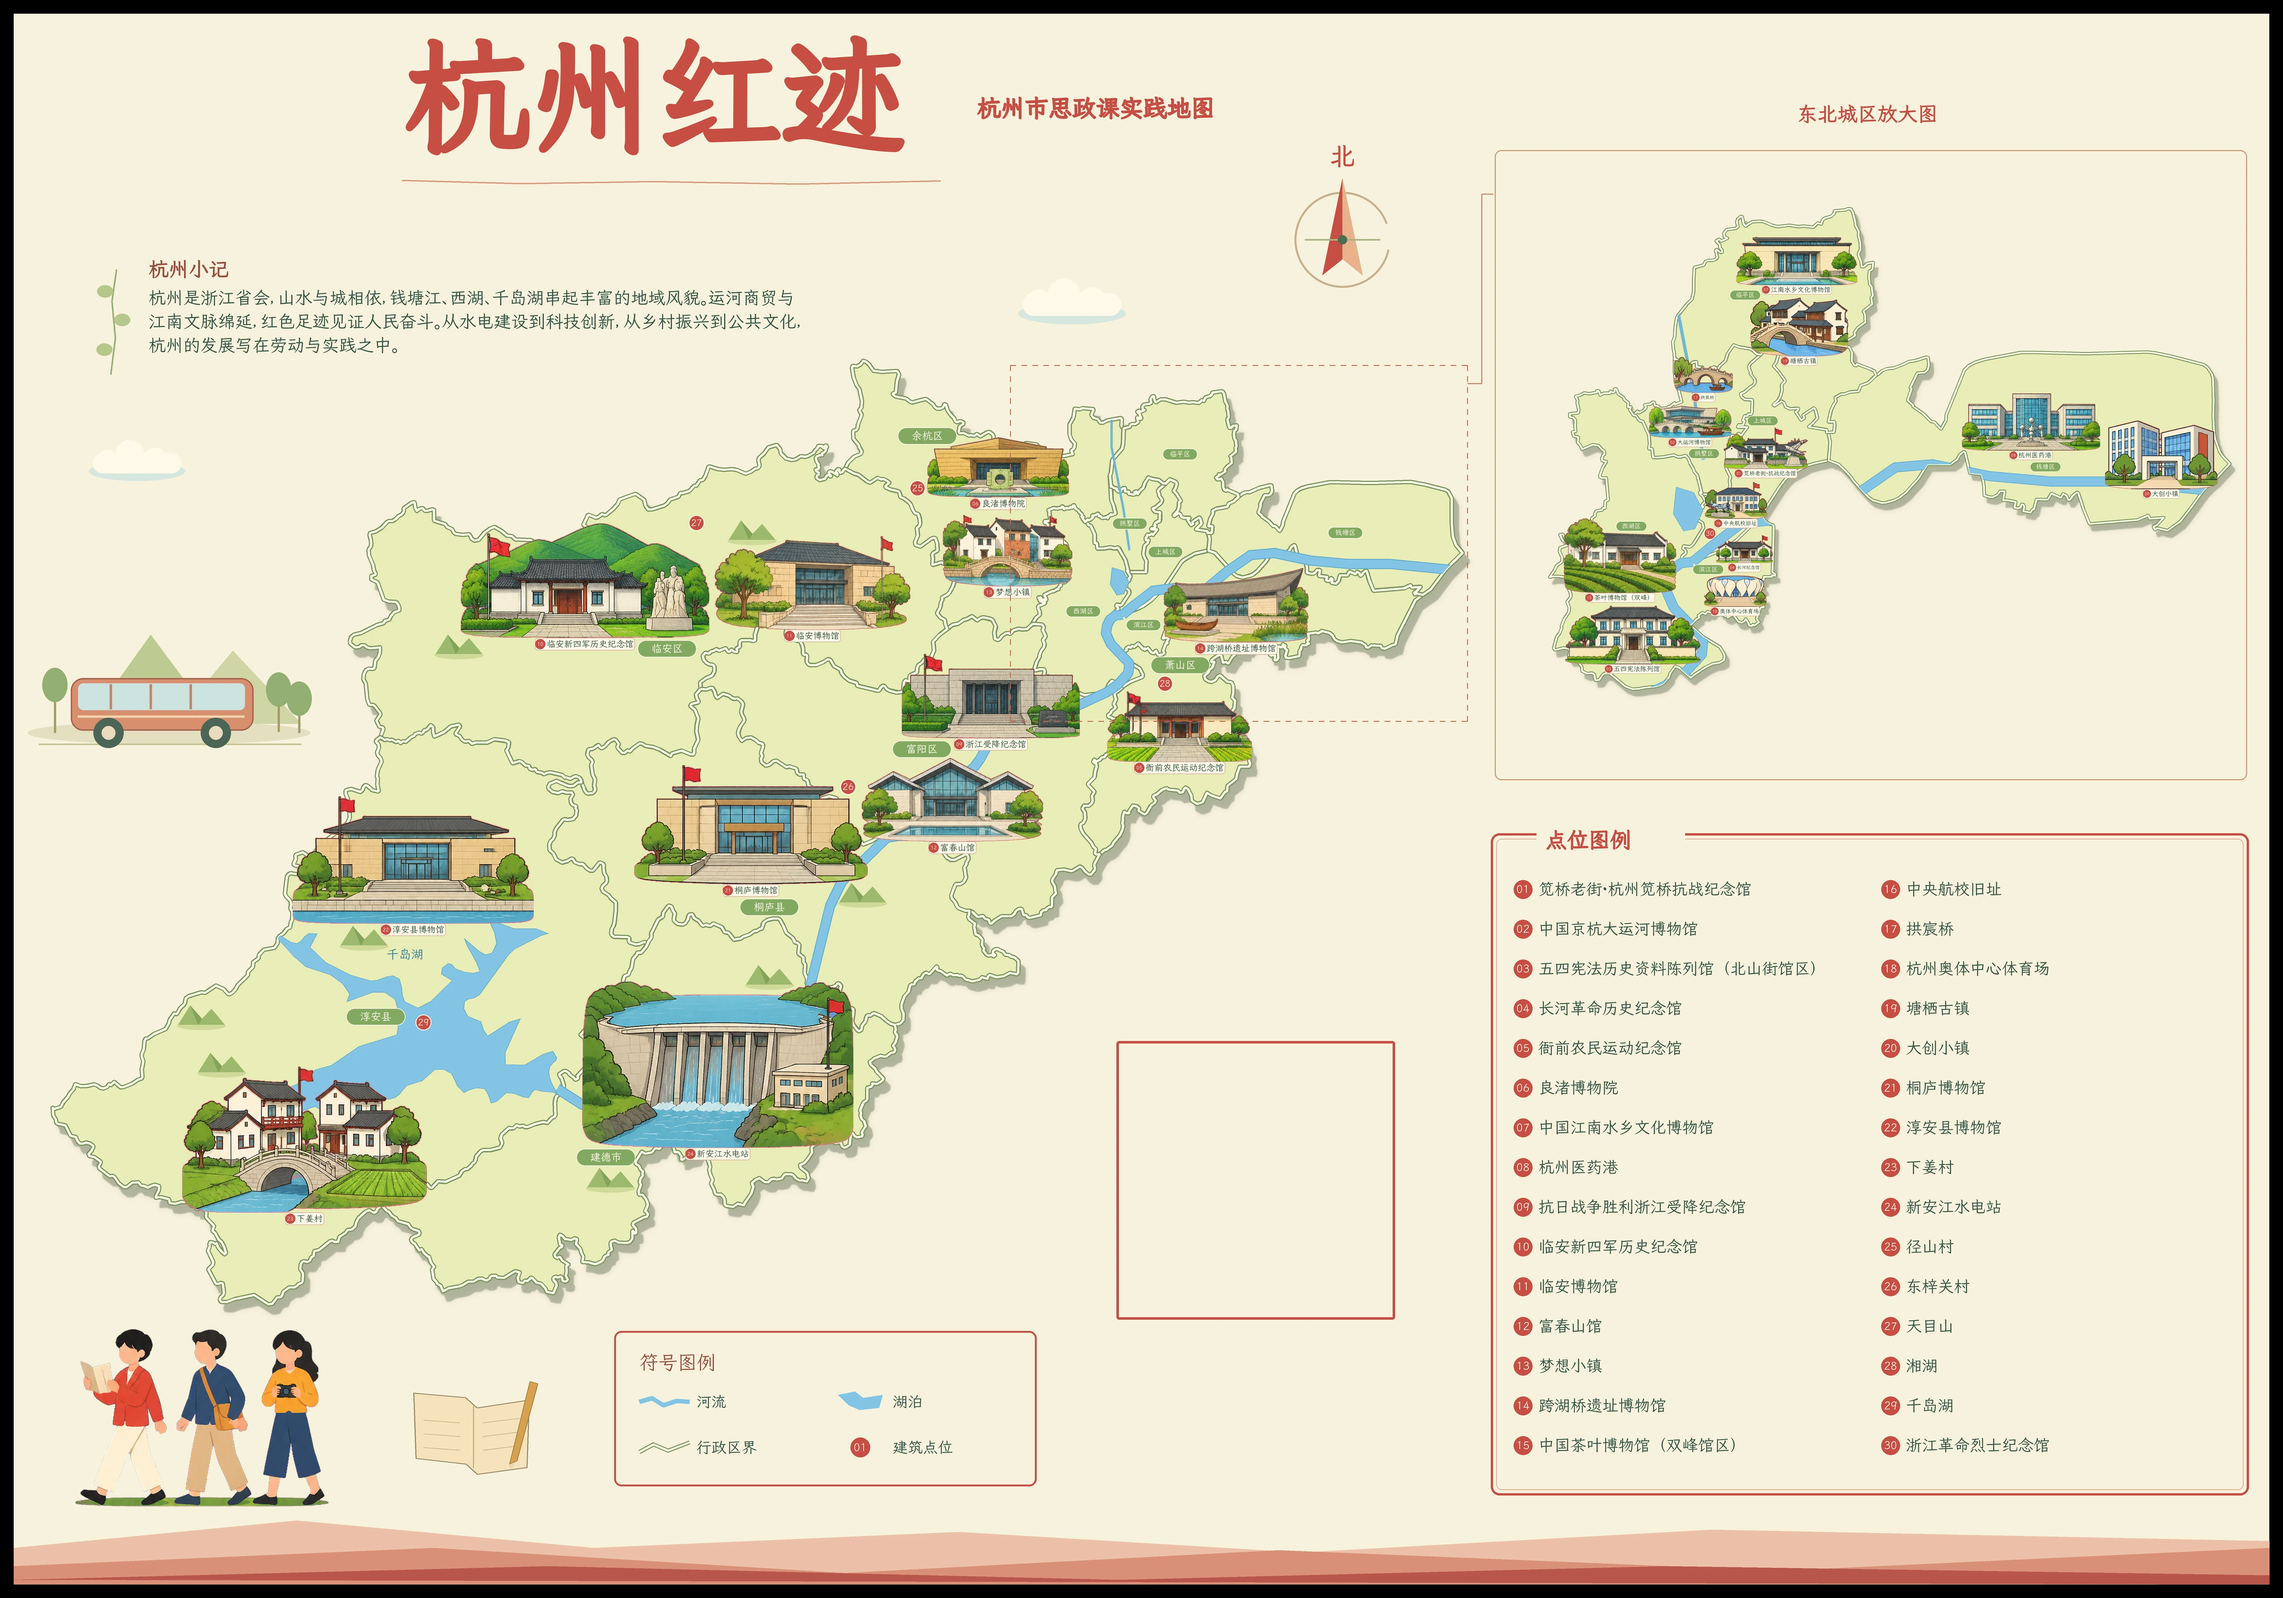
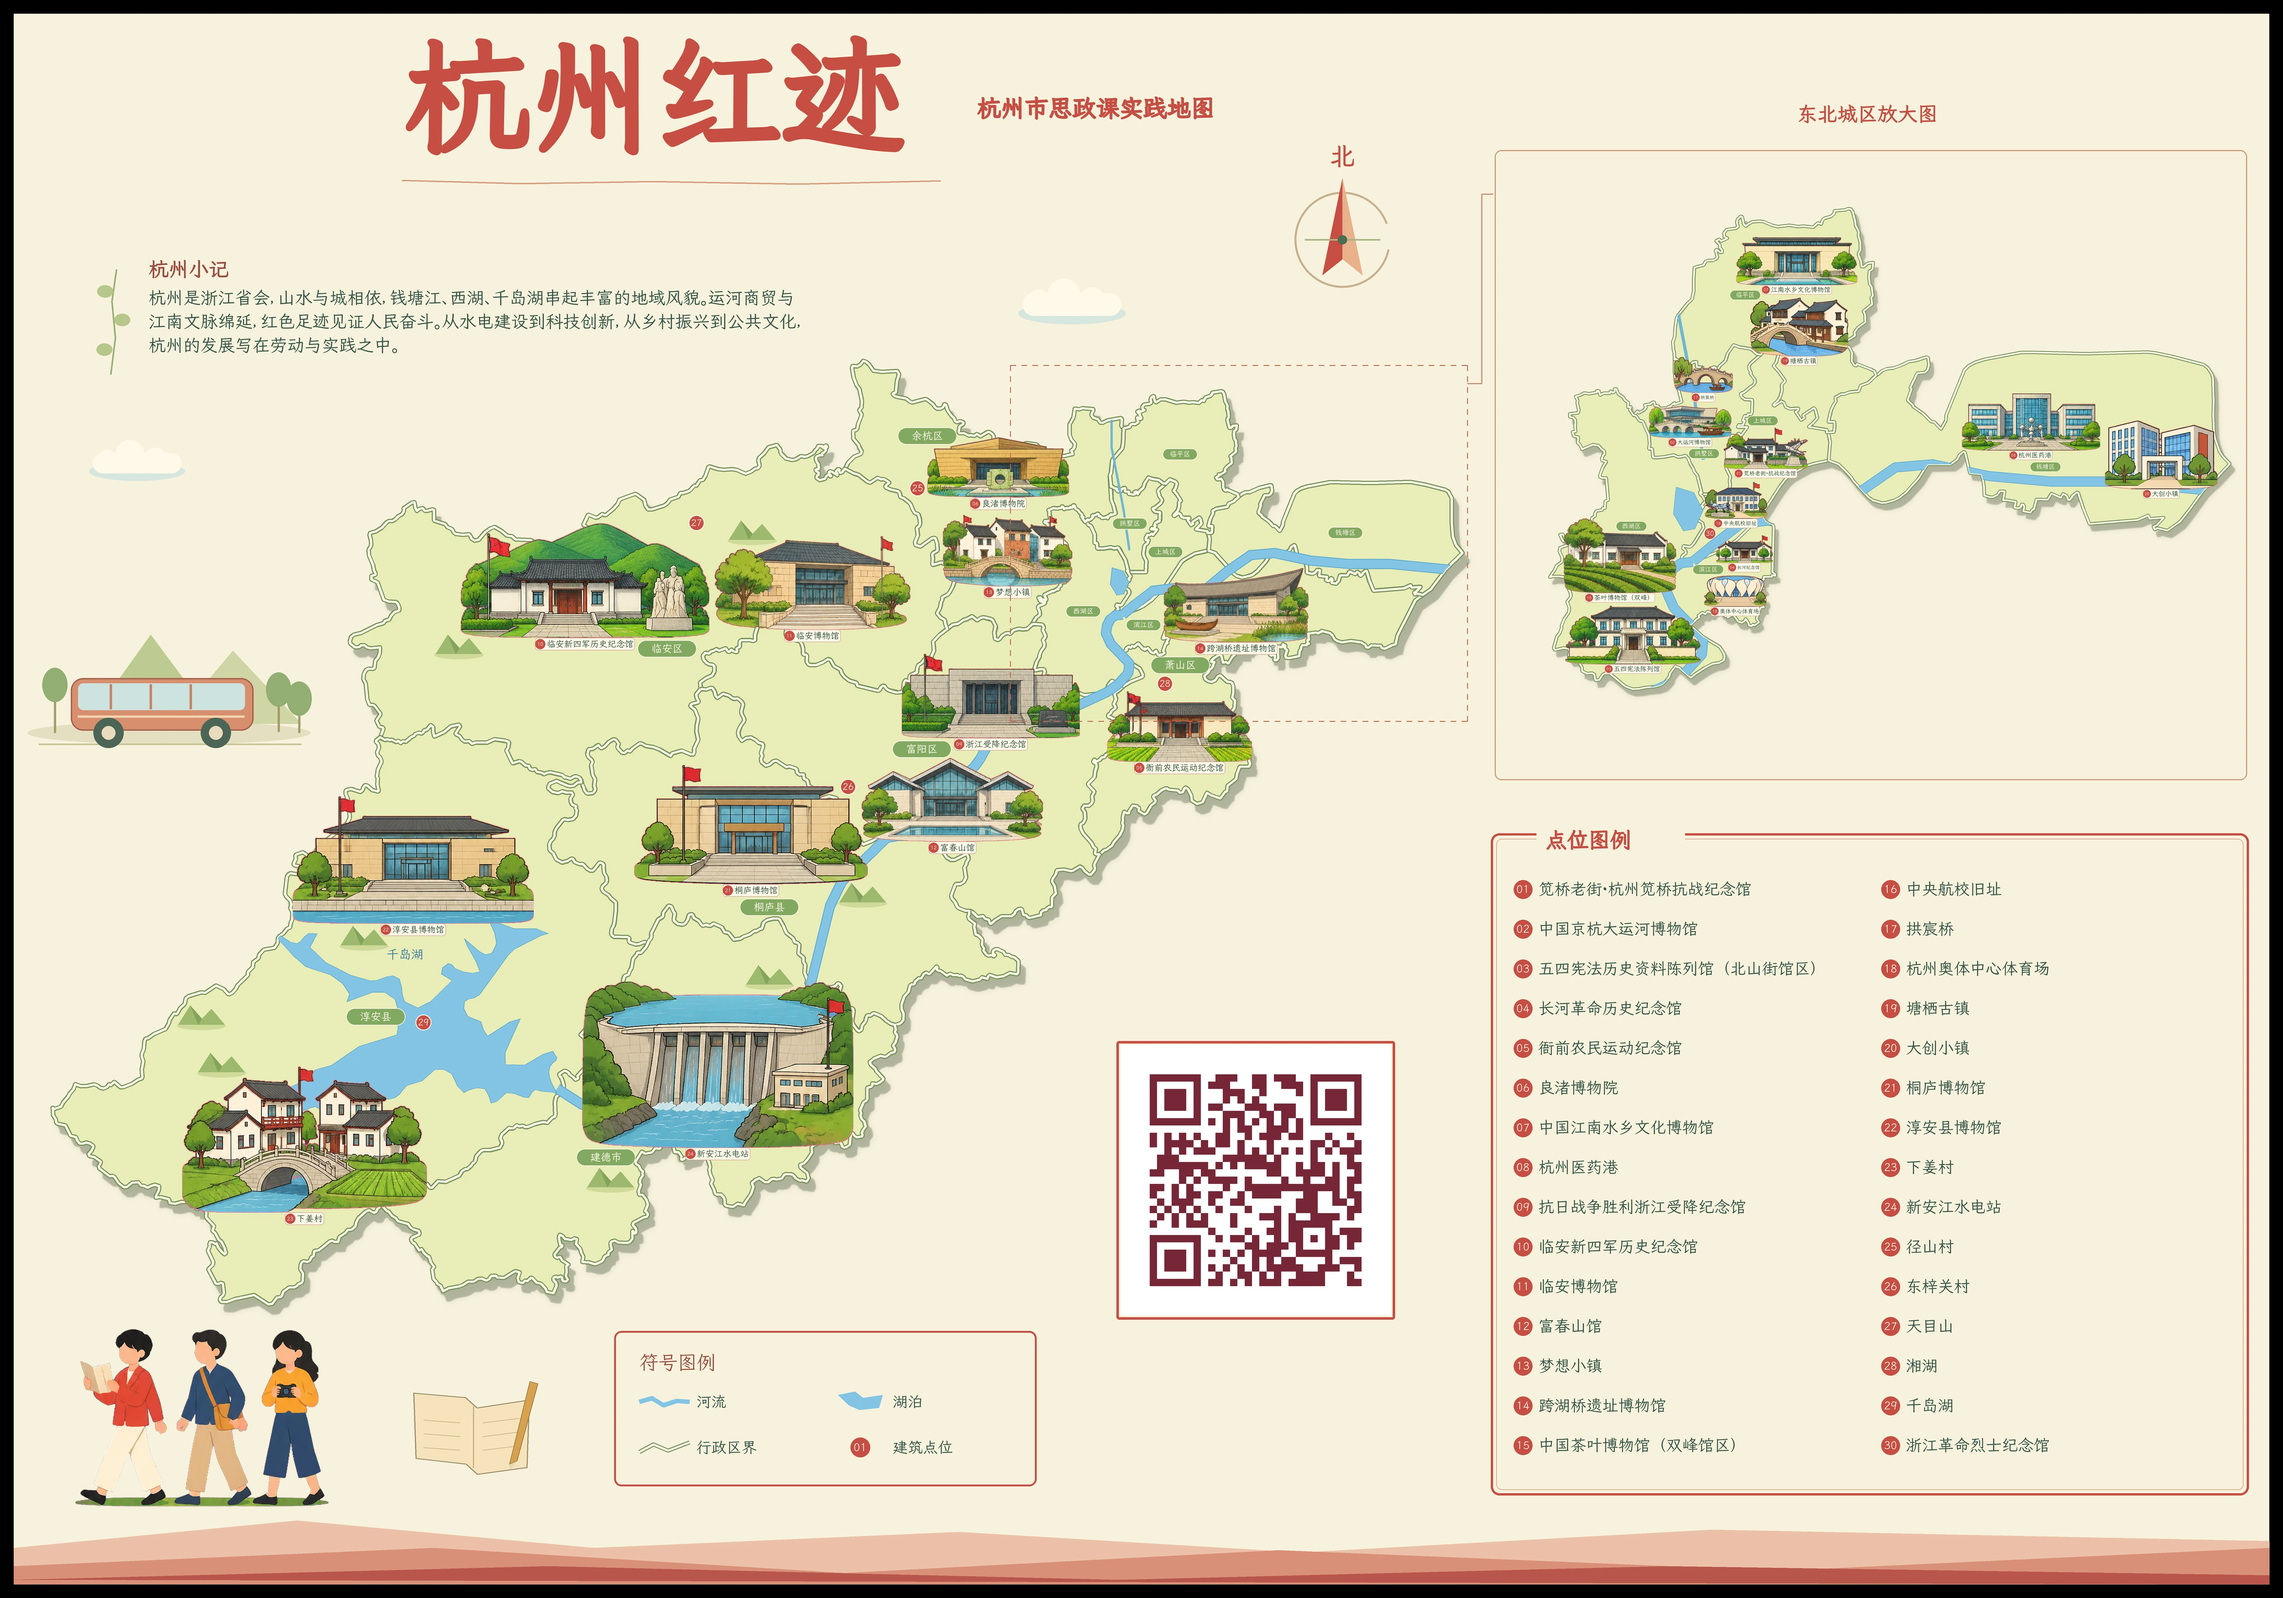
Update hand-drawn map with permanent website QR

Changed region(s): [[0.468, 0.654, 0.624, 0.8409]]

diff --git a/introduction.html b/introduction.html
@@ -28,7 +28,7 @@
   </main>
   <footer><div class="footer-inner"><a class="footer-brand" href="index.html">杭州红迹</a><div class="footer-actions"><a href="index.html">返回点位首页 ↗</a><button id="open-map-footer">查看手绘地图 ↗</button></div></div></footer>
   <dialog id="point-dialog" class="point-dialog" aria-labelledby="point-title"><button class="close-button" data-close aria-label="关闭详情">×</button><div id="point-content"></div></dialog>
-  <dialog id="map-dialog" class="map-dialog" aria-labelledby="map-title"><div class="map-toolbar"><h2 id="map-title">杭州红迹 · 手绘地图</h2><div><a href="杭州红迹-手绘地图.png" download>下载原图 ↓</a><button data-close aria-label="关闭地图">×</button></div></div><div class="map-scroll"><img src="map-detail.webp" alt="杭州红迹手绘地图，完整呈现13个区县市和30处点位" width="5000" height="3500"></div><p class="map-hint">双击地图切换放大，可滚动查看细节。</p></dialog>
+  <dialog id="map-dialog" class="map-dialog" aria-labelledby="map-title"><div class="map-toolbar"><h2 id="map-title">杭州红迹 · 手绘地图</h2><div><a href="杭州红迹-手绘地图.png?rev=aeb5485d6e7c" download>下载原图 ↓</a><button data-close aria-label="关闭地图">×</button></div></div><div class="map-scroll"><img src="map-detail.webp?rev=aeb5485d6e7c" alt="杭州红迹手绘地图，完整呈现13个区县市和30处点位" width="5000" height="3500"></div><p class="map-hint">双击地图切换放大，可滚动查看细节。</p></dialog>
   <dialog id="share-dialog" class="share-dialog" aria-labelledby="share-title"><button class="close-button" data-close aria-label="关闭二维码">×</button><span class="dialog-kicker">杭州红迹 · 数字导览</span><h2 id="share-title">扫码访问配套网站</h2><img src="site-qr.png" alt="杭州红迹介绍网站访问二维码" width="260" height="260"><a id="site-url" href="#"></a><a class="download-qr" href="site-qr.png" download="杭州红迹-访问二维码.png">保存二维码 ↓</a></dialog>
 </body>
 </html>

diff --git a/index.html b/index.html
@@ -33,7 +33,7 @@
     </section>
   </main>
   <dialog id="point-dialog" class="point-dialog" aria-labelledby="point-title"><button class="close-button" data-close aria-label="关闭详情">×</button><div id="point-content"></div></dialog>
-  <dialog id="map-dialog" class="map-dialog" aria-labelledby="map-title"><div class="map-toolbar"><h2 id="map-title">杭州红迹 · 手绘地图</h2><div><a href="杭州红迹-手绘地图.png" download>下载原图 ↓</a><button data-close aria-label="关闭地图">×</button></div></div><div class="map-scroll"><img src="map-detail.webp" alt="杭州红迹手绘地图，完整呈现13个区县市和30处点位" width="5000" height="3500"></div><p class="map-hint">双击地图切换放大，可滚动查看细节。</p></dialog>
+  <dialog id="map-dialog" class="map-dialog" aria-labelledby="map-title"><div class="map-toolbar"><h2 id="map-title">杭州红迹 · 手绘地图</h2><div><a href="杭州红迹-手绘地图.png?rev=aeb5485d6e7c" download>下载原图 ↓</a><button data-close aria-label="关闭地图">×</button></div></div><div class="map-scroll"><img src="map-detail.webp?rev=aeb5485d6e7c" alt="杭州红迹手绘地图，完整呈现13个区县市和30处点位" width="5000" height="3500"></div><p class="map-hint">双击地图切换放大，可滚动查看细节。</p></dialog>
   <dialog id="share-dialog" class="share-dialog" aria-labelledby="share-title"><button class="close-button" data-close aria-label="关闭二维码">×</button><span class="dialog-kicker">杭州红迹 · 数字导览</span><h2 id="share-title">扫码访问配套网站</h2><img src="site-qr.png" alt="杭州红迹介绍网站访问二维码" width="260" height="260"><a id="site-url" href="#"></a><a class="download-qr" href="site-qr.png" download="杭州红迹-访问二维码.png">保存二维码 ↓</a></dialog>
 </body>
 </html>
